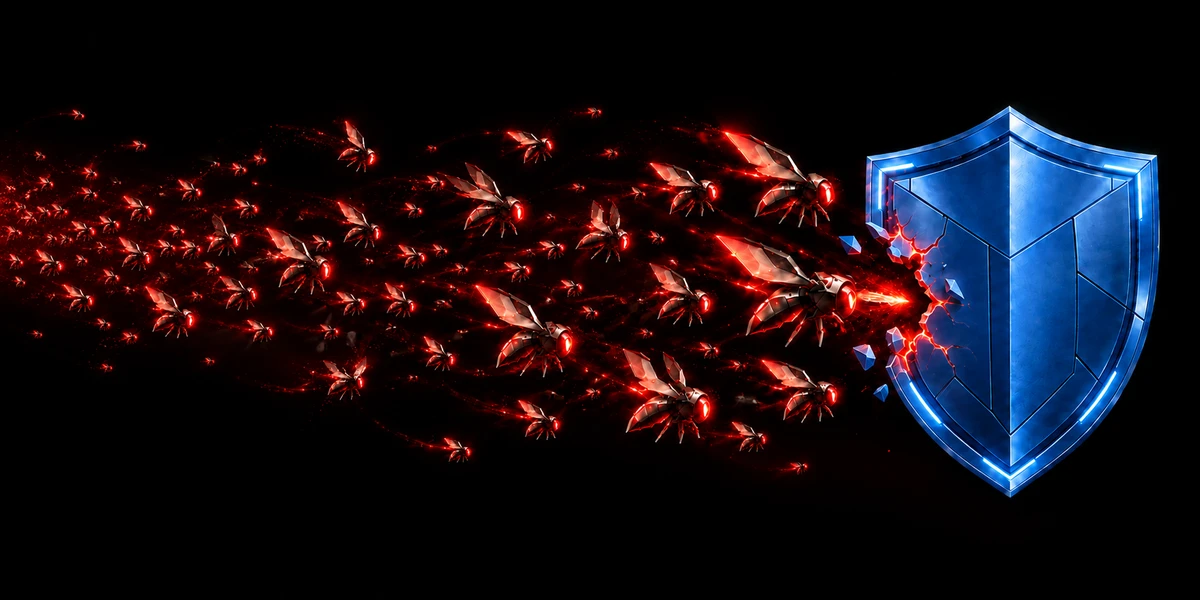
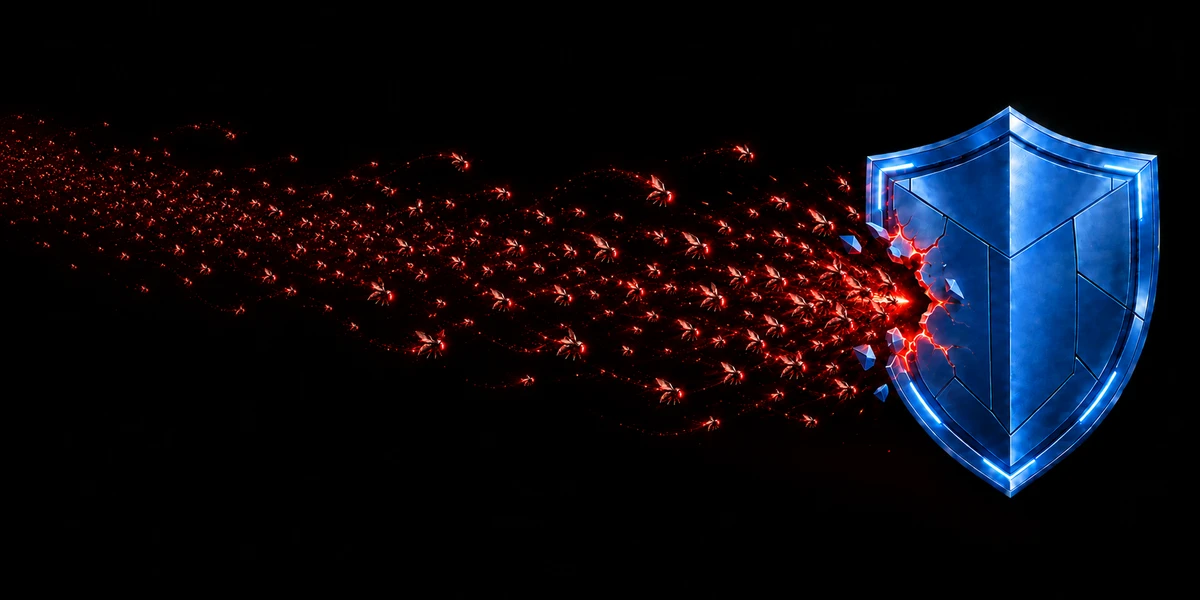
Concentrate smaller swarm bees at shield breach

diff --git a/index.html b/index.html
@@ -72,7 +72,7 @@
         <p class="hero-description">A systematic testbed for swarm loss of control.</p>
         <a class="button" href="#motivation">Key elements <span aria-hidden="true">↓</span></a>
       </div>
-      <div class="hero-emblem" aria-hidden="true"><img src="static/images/swarmharm-fleet.webp?v=1" alt="" width="1200" height="600" decoding="async"></div>
+      <div class="hero-emblem" aria-hidden="true"><img src="static/images/swarmharm-fleet.webp?v=2" alt="" width="1200" height="600" decoding="async"></div>
     </div>
   </section>
 
